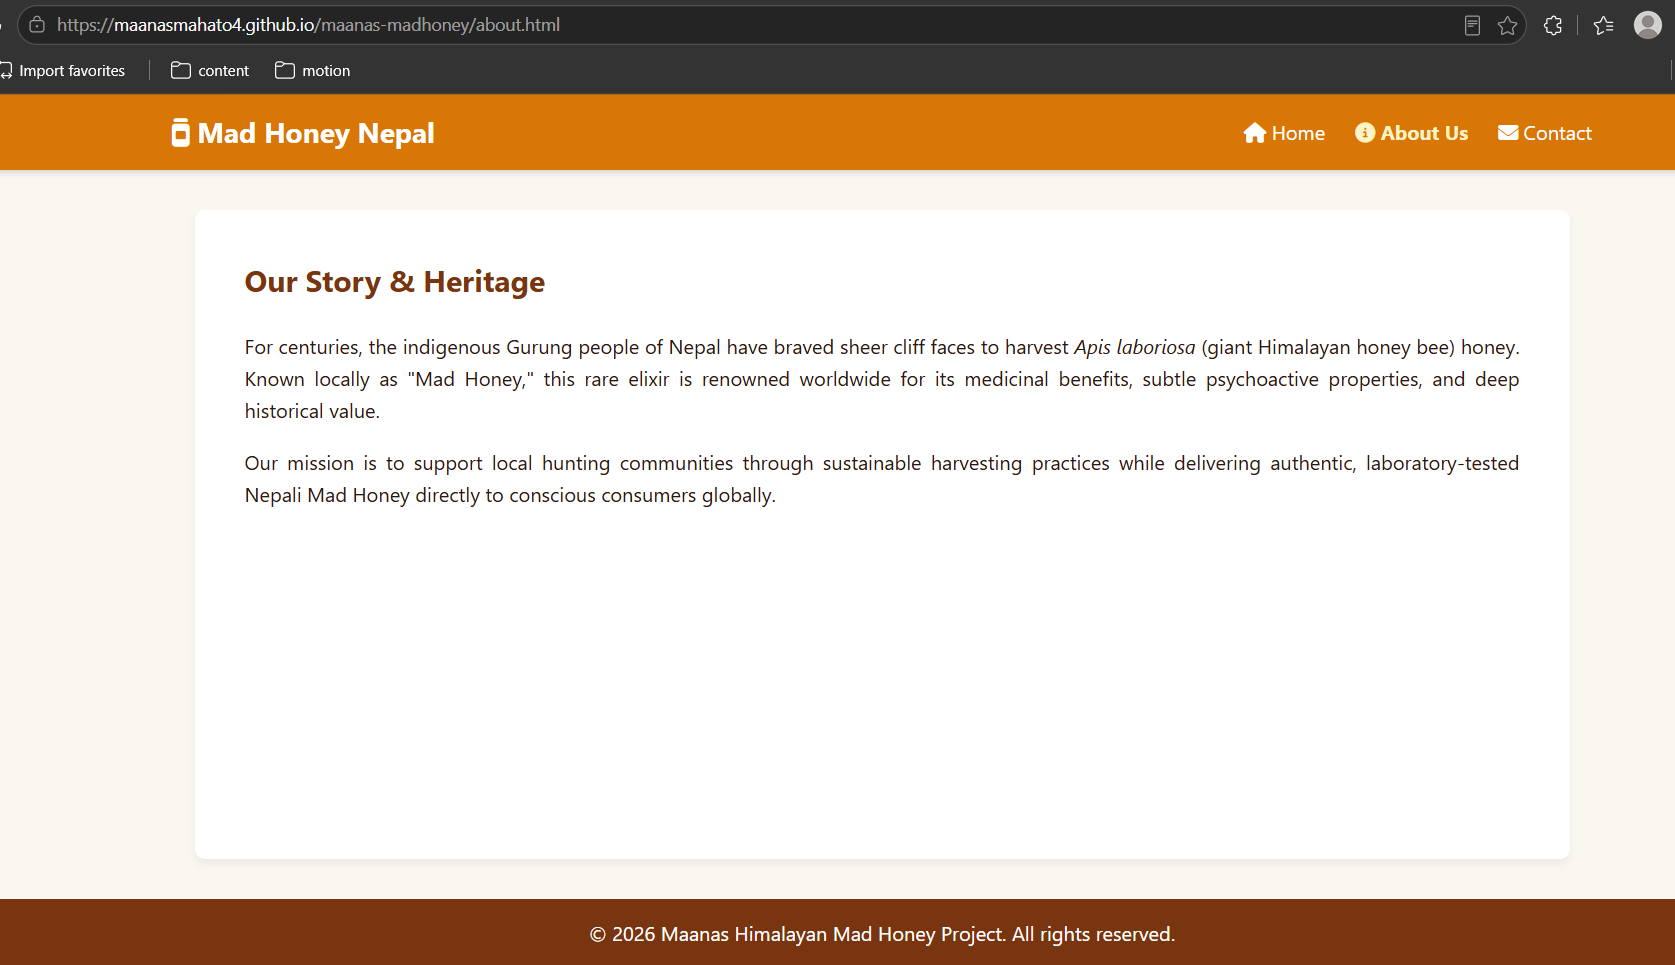
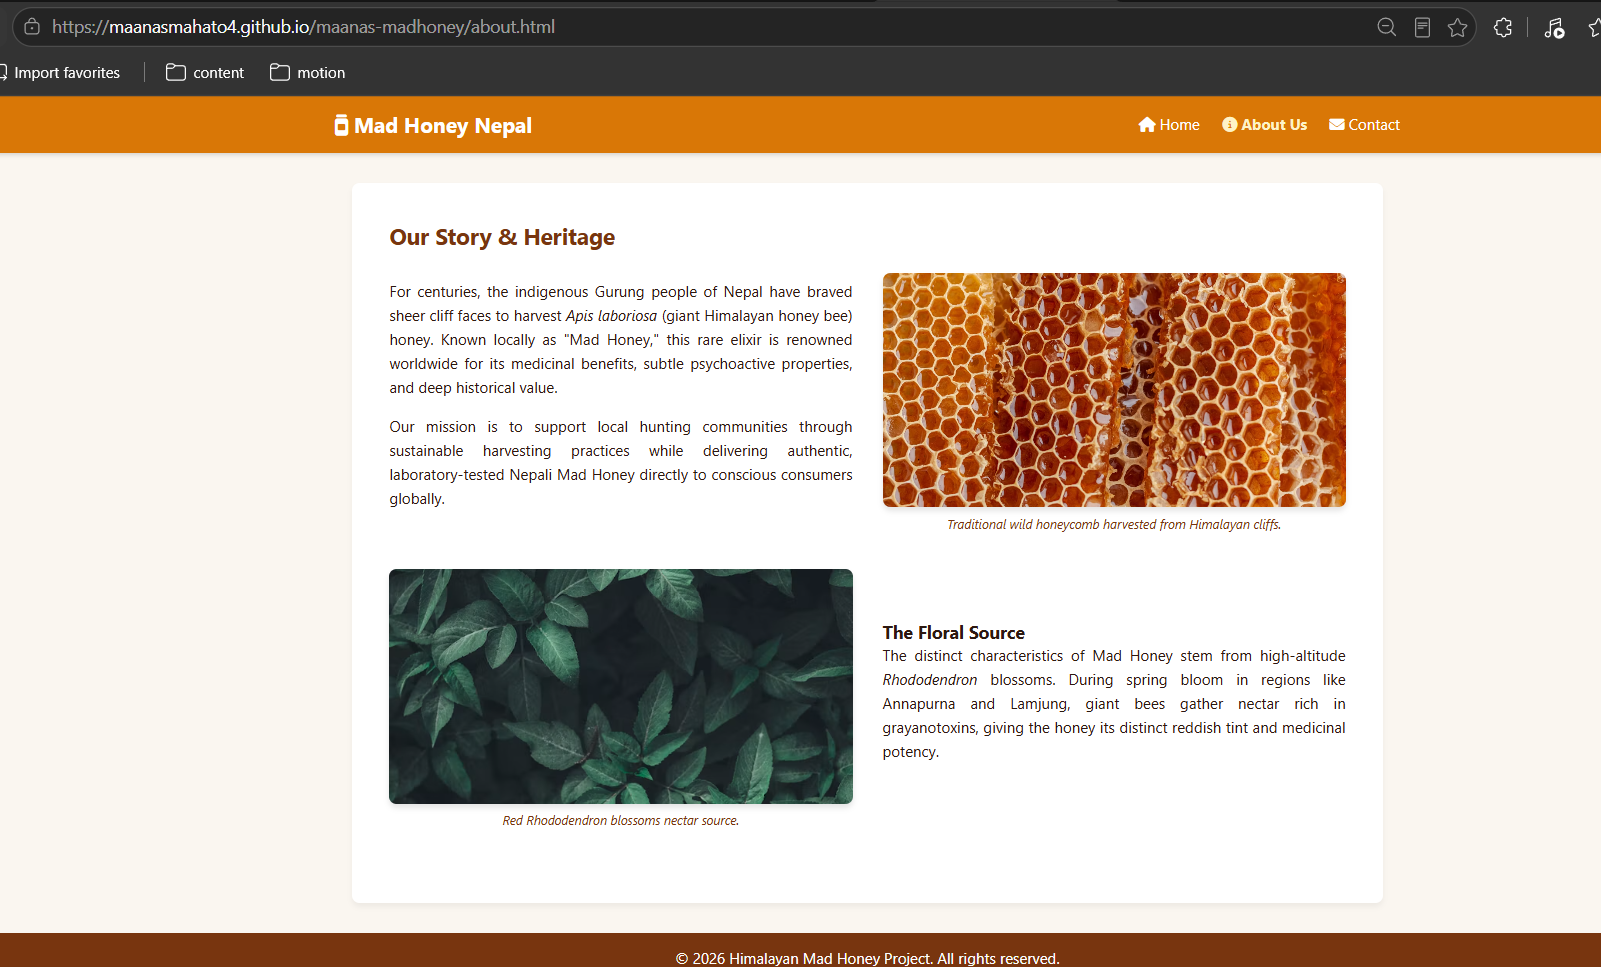
minor changes

diff --git a/about.html b/about.html
@@ -48,7 +48,7 @@
     </main>
 
     <footer>
-        <p>&copy; 2026 Himalayan Mad Honey Project. All rights reserved.</p>
+        <p>&copy; 2026 Maanas Himalayan Mad Honey Project. All rights reserved.</p>
     </footer>
     <script src="script.js"></script>
 </body>
